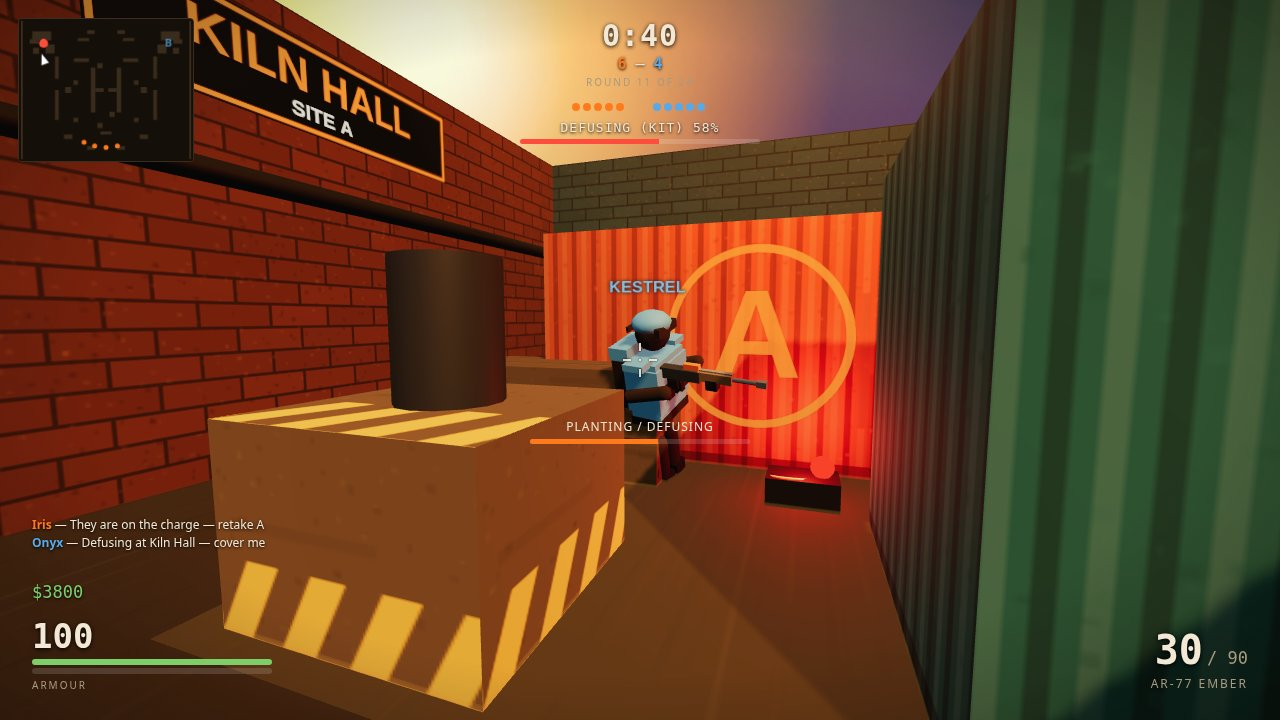
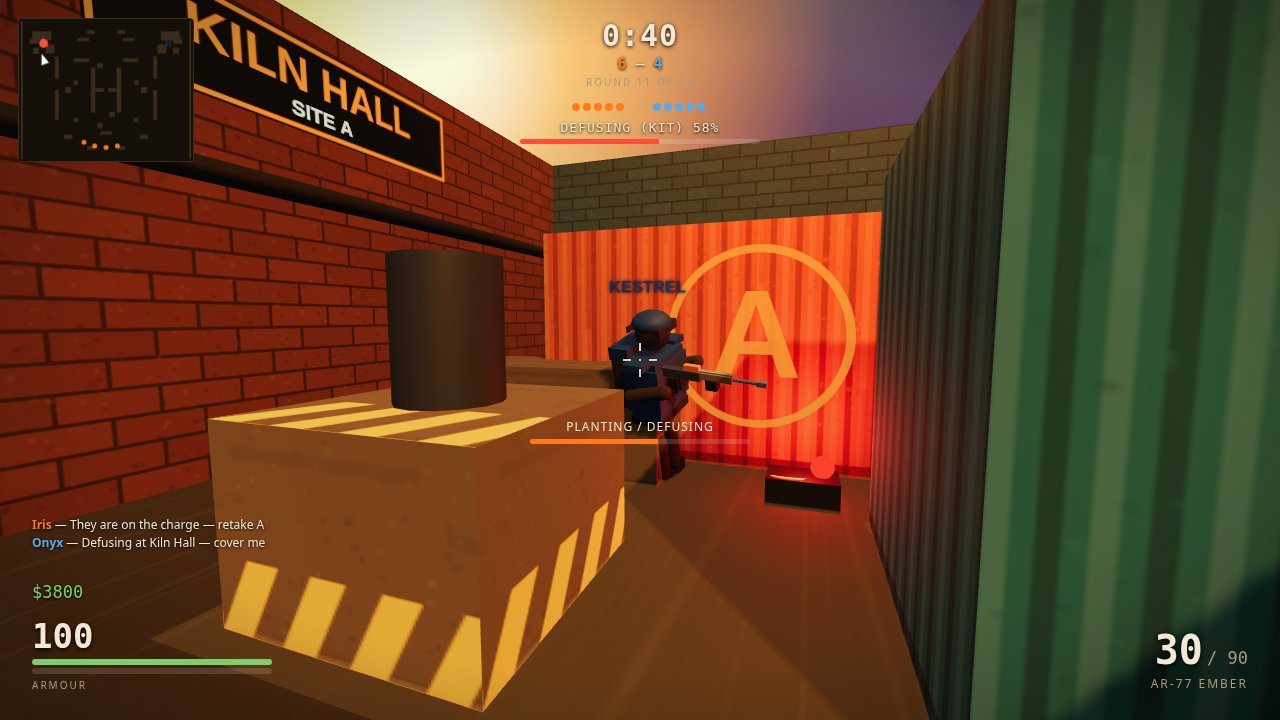
Polish 2.5: Ash armor deeper #14355f (reads blue under warm sun), sunlit dirt #5d4a2e, retake 4 screenshots; judged 158209 bytes

Changed region(s): [[0.4688, 0.3667, 0.5938, 0.5806]]

diff --git a/game/src/world.js b/game/src/world.js
@@ -285,7 +285,7 @@ export function createWorld(scene) {
   }
   // Outer ground: dirt plane to the horizon, road, outer blocks + stacks.
   const flat = (w, d, c, x, y, z) => { const m = new THREE.Mesh(new THREE.PlaneGeometry(w, d), new THREE.MeshStandardMaterial({ color: new THREE.Color(c), roughness: 1 })); m.rotation.x = -Math.PI / 2; m.position.set(x, y, z); group.add(m); };
-  flat(240, 240, '#3a2c1c', 0, -0.41, 0);
+  flat(240, 240, '#5d4a2e', 0, -0.41, 0);
   flat(7, 240, '#24211d', 34, -0.4, 0);
   for (const [ox, oz, ow, oh, od, om] of [[-38, 26, 12, 7, 9, 'wallA'], [40, -28, 14, 9, 10, 'wallB'], [-46, -22, 10, 6, 8, 'wallMid'], [44, 22, 9, 8, 9, 'wallA'], [-30, 34, 16, 5, 8, 'wallB'], [52, 4, 10, 11, 8, 'wallMid'], [-46, 8, 1.3, 16, 0, 'stack'], [48, -12, 1.1, 13, 0, 'stack']]) {
     const ob = new THREE.Mesh(om === 'stack' ? new THREE.CylinderGeometry(ow, ow * 1.35, oh, 12) : new THREE.BoxGeometry(ow, oh, od), om === 'stack' ? brickMat : materials[om]);

diff --git a/game/src/palette.js b/game/src/palette.js
@@ -9,7 +9,7 @@ export const PALETTE = {
   ink: '#f2e8d5', // warm off-white
   muted: '#a89a80', // dim warm grey
   accent: '#ff7a1a', // ember orange (attackers, crosshair, highlights)
-  ash: '#2f4a6b', // deep slate blue (defenders)
+  ash: '#14355f', // deep saturated slate blue — B/R high enough to read blue under the warm sunset sun
   good: '#7dd069', // healthy / win
   danger: '#ff4d3d', // damage / lose
   concrete: '#777770', // mid grey concrete (mid lane)
